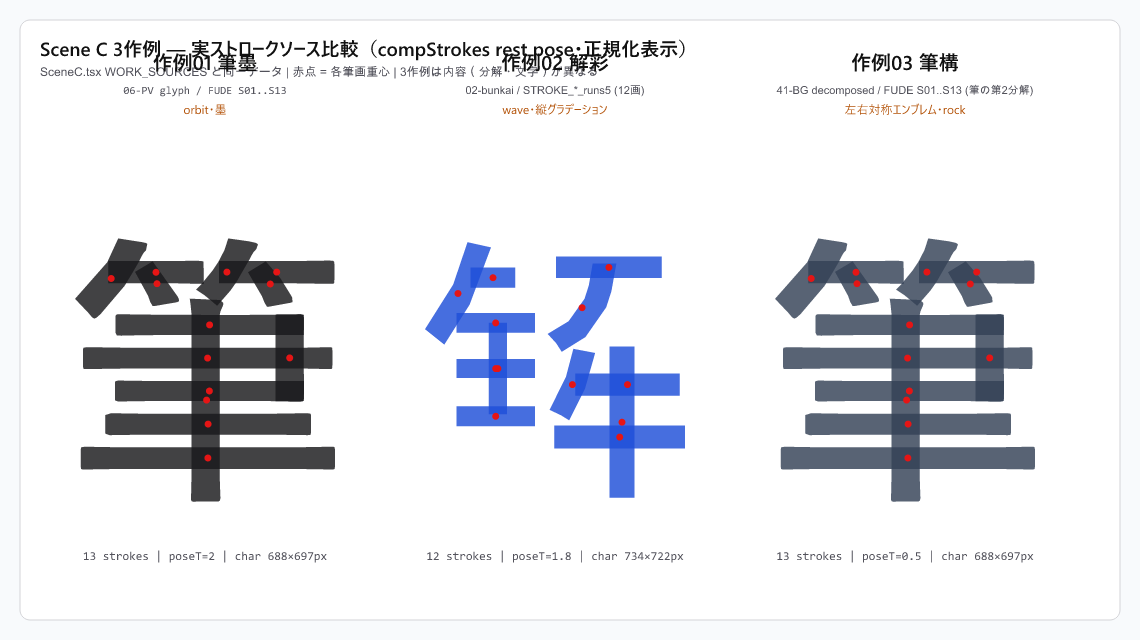
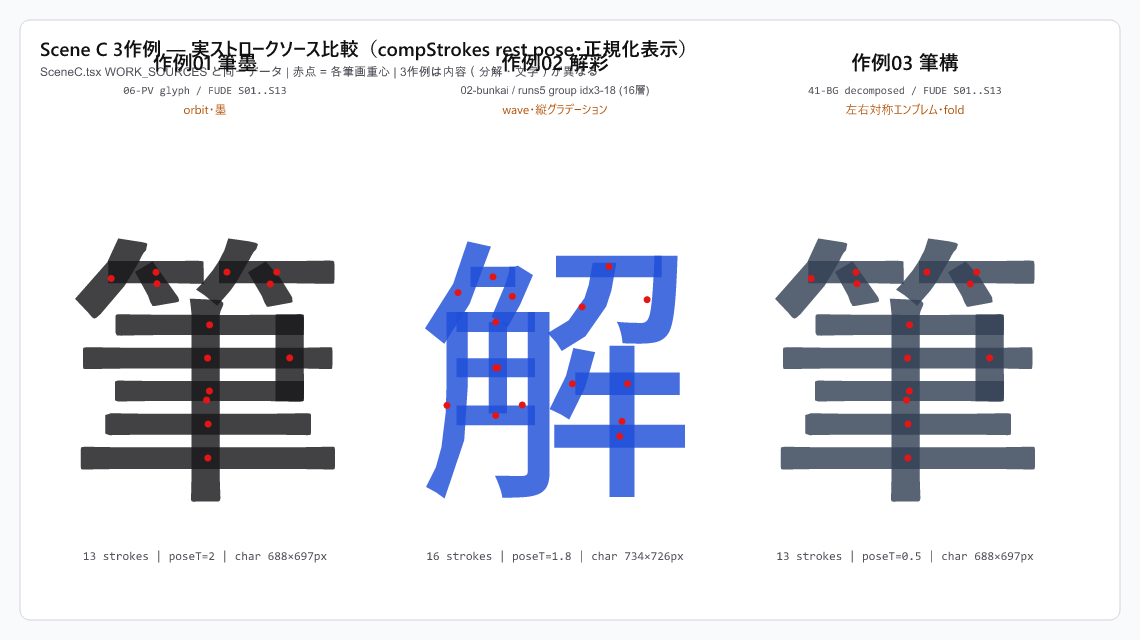
docs: sync motion-design with scene-c assembly findings and scene-e settle fix

diff --git a/docs/design/07-motion-design.md b/docs/design/07-motion-design.md
@@ -79,18 +79,20 @@
 
 ### 3.3 Scene C（`f191..f281`）：3作例の独立運動文法（差別化設計）
 
-> **2026-11 実装同期**: 3作例は内容（ストロークソース）も分離済み。`SceneC.tsx` の `WORK_SOURCES` が正本：W1「筆墨」=`06-PV glyph` FUDE 13画・orbit・墨、W2「解彩」=`02-bunkai` runs5 12画・wave・縦グラデーション、W3「筆構」=`41-BG decomposed strokes` FUDE 13画（筆の第2分解）・左右対称エンブレム・rock。以下は各作例の運動文法の設計意図。
+> **2026-11 実装同期**: 3作例は内容（ストロークソース）も分離済み。`SceneC.tsx` の `WORK_SOURCES` が正本：W1「筆墨」=`06-PV glyph` FUDE 13画・orbit・墨、W2「解彩」=`02-bunkai` runs5 群16層（indices 3-18）・wave・縦グラデーション、W3「筆構」=`41-BG decomposed strokes` FUDE 13画・左右対称エンブレム・fold。以下は各作例の運動文法の設計意図。
 >
 > **ソース比較図（2026-11 追加）**: [`diagrams/motion-scene-c-works.png`](./diagrams/motion-scene-c-works.png)（[SVG](./diagrams/motion-scene-c-works.svg)）— `SceneC.tsx` と同一の `compStrokes` rest pose 幾何を3パネルに正規化描画し、各作例の実筆画集合・筆画数・文字 bbox・ソース provenance（comp/レイヤーパターン/poseT）を並置。3作例が仕上げではなく**内容（分解・文字）で異なる**ことを図で確認できる。
 
 - **作例 01「筆墨」（筆・墨）**: 完成形の墨字を先に見せ、色分けされた筆画が文字中心から**独立 orbit**（個別位相・半径・回転）で散開し、再合成して完成形へ戻る。書き順グループではなく各画の固有リズムで動かす。
-- **作例 02「解彩」（解・グラデーション）**: 別文字「解」の粗い分解12画を、コバルト→朱の縦グラデーションで一つの色面として見せ、左→右へ**位相差のある per-stroke wave** が走り、グラデーション完成形へ解決する。
-- **作例 03「筆構」（筆・対称エンブレム）**: 同一「筆」の**第2の実分解**（BG decomposed strokes）の左右半分を鏡像配置した対称エンブレム。各翼内で筆画が分離・rock し、ニアブラックの一つの意匠へ再合成する。
+- **作例 02「解彩」（解・グラデーション）**: 別文字「解」の分解16層（runs5 群）を、コバルト→朱の縦グラデーションで一つの色面として見せ、左→右へ**位相差のある per-stroke wave** が走り、グラデーション完成形へ解決する。
+- **作例 03「筆構」（筆・対称エンブレム）**: 「筆」分解ストローク（`41-BG decomposed strokes` FUDE S01..S13）の左右半分を鏡像配置した対称エンブレム。各翼内で筆画がシーム軸を支点に **fold**（開閉スイング＋シーム法線の呼吸）し、ニアブラックの一つの意匠へ再合成する。**2026-11 実測注意**: comp 41 の幾何は W1（`06-PV glyph`）と画素同一（IoU 1.0）であり「第2の別分解」ではない — 差別化はエンブレム提示と fold 運動が担う。真に内容の異なる第3素材が必要なら別文字の実分解ダンプが要る（[`verification/scene-c-works-assembly.json`](./verification/scene-c-works-assembly.json)）。
+- **作例別検証（2026-11 追加）**: [`verification/scene-c-works-assembly.json`](./verification/scene-c-works-assembly.json)（`tools/design/verify-scene-c-works.ts`）— W1 結合 IoU 0.9998、W2 runs5 群16層で結合 IoU 1.0（旧パターンは runs4/5/6/7 混在で 0.6815 だった破損を修正）、W3 は W1 と幾何同一を確認。描画証拠は [`prototypes/scene-c/`](./prototypes/scene-c/) の3静止画と [`verification/scene-c-stills.json`](./verification/scene-c-stills.json)（W3 エンブレムは鏡像軸 x=775 に対し 99.3% 対称）。
 
 ### 3.4 Scene E（`f371..f480`）：呼吸する余韻収束と視認 CTA の共存
 
 - **運動文法**: **「穏やかな減衰呼吸収束（E1）→ 2秒以上の静謐定着（E2）」**。
 - **相互作用**: 右側の復元筆画（例 `PV glyph EE` 13画系）は小幅（`±5〜20px`）の緩慢な減衰収束で組まれ、左 `Logo`＋`Heading`（`15.50..16.167s` で中央復帰）と右 CTA テキスト群が読み取れる終盤 **`2.2s` 以上（`~f427..480`）** においては主文字の大きな移動を止め、微かな余韻または完全静止で読みやすさと品位を最大化する。
+- **2026-11 実測検証**: PV-Master/PV-Chrome の差分マスクでシーン内容のみを分離計測（`tools/design/sc-e-diff.ts`/`sc-e-motion.ts`/`sc-e-measure.ts`）。ヒーローは f410–415 で画素差分 0 の完全静止を確認。旧実装は CTA stagger が ~f441 まで残り静定が 1.58s しかなかったため、`SceneE.tsx` のスタッガーを圧縮し **f437 以降シーン内容が完全静止**（残り ~1.75s）へ改善。左カラム・ギャップへの侵入は全計測フレームで 0px。
 
 ---
 
